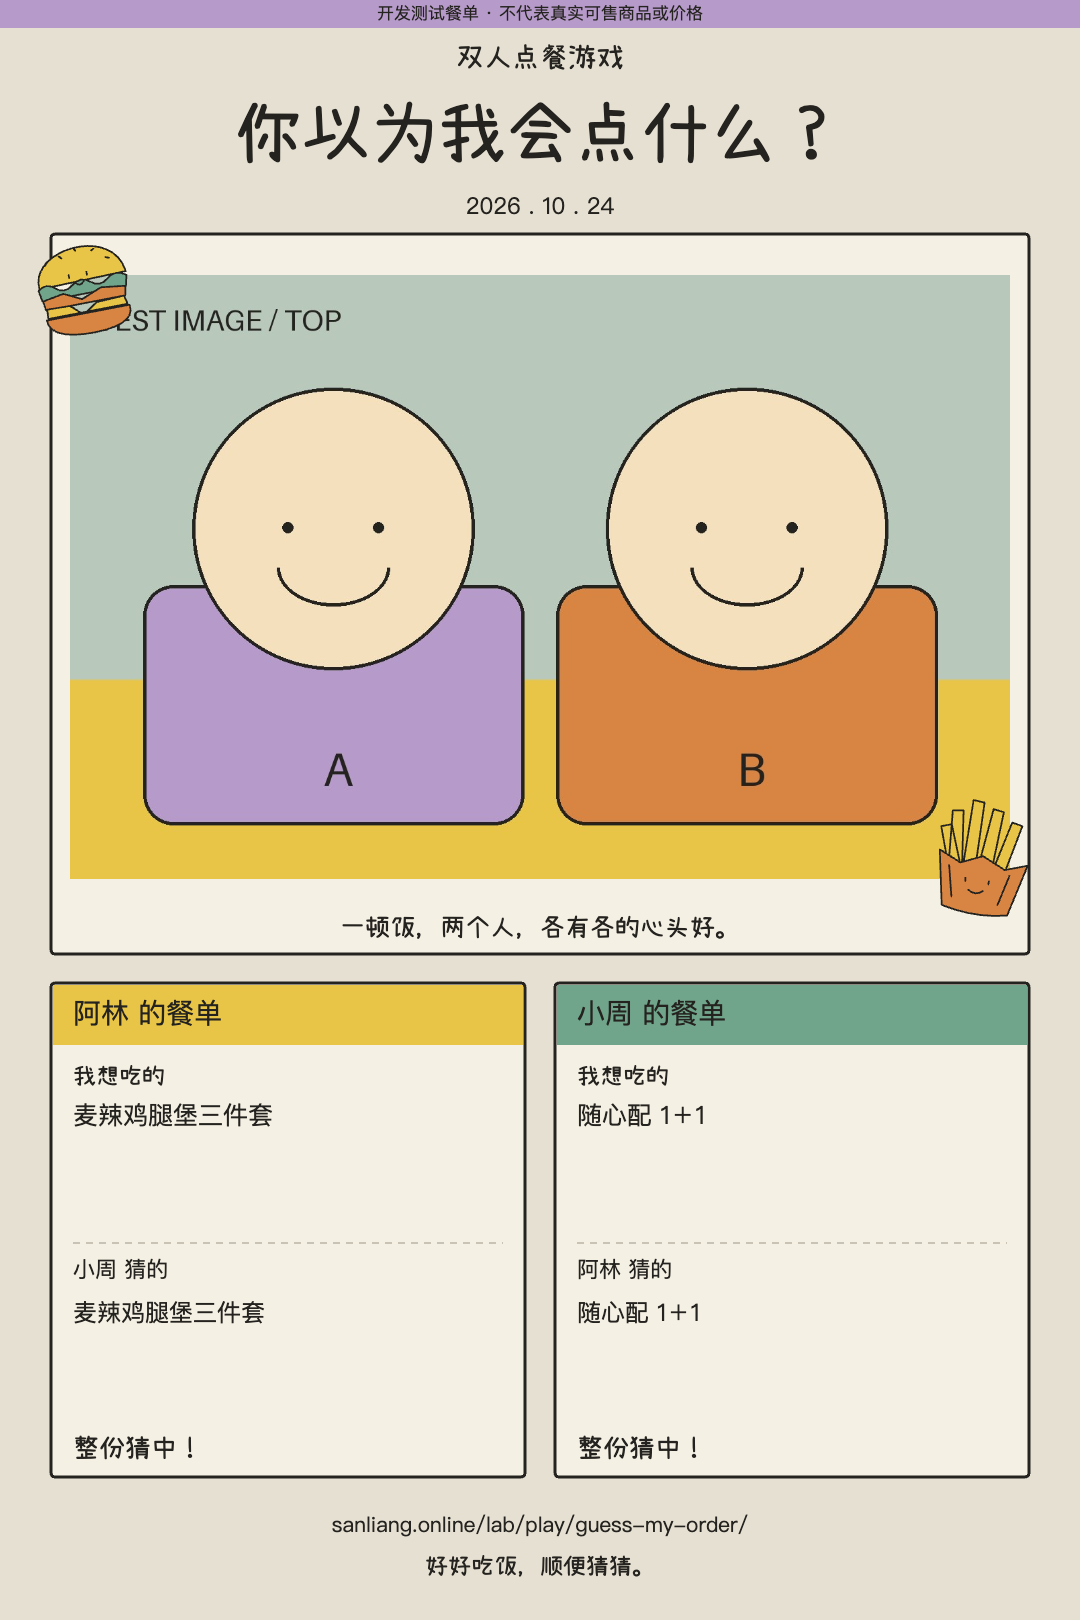
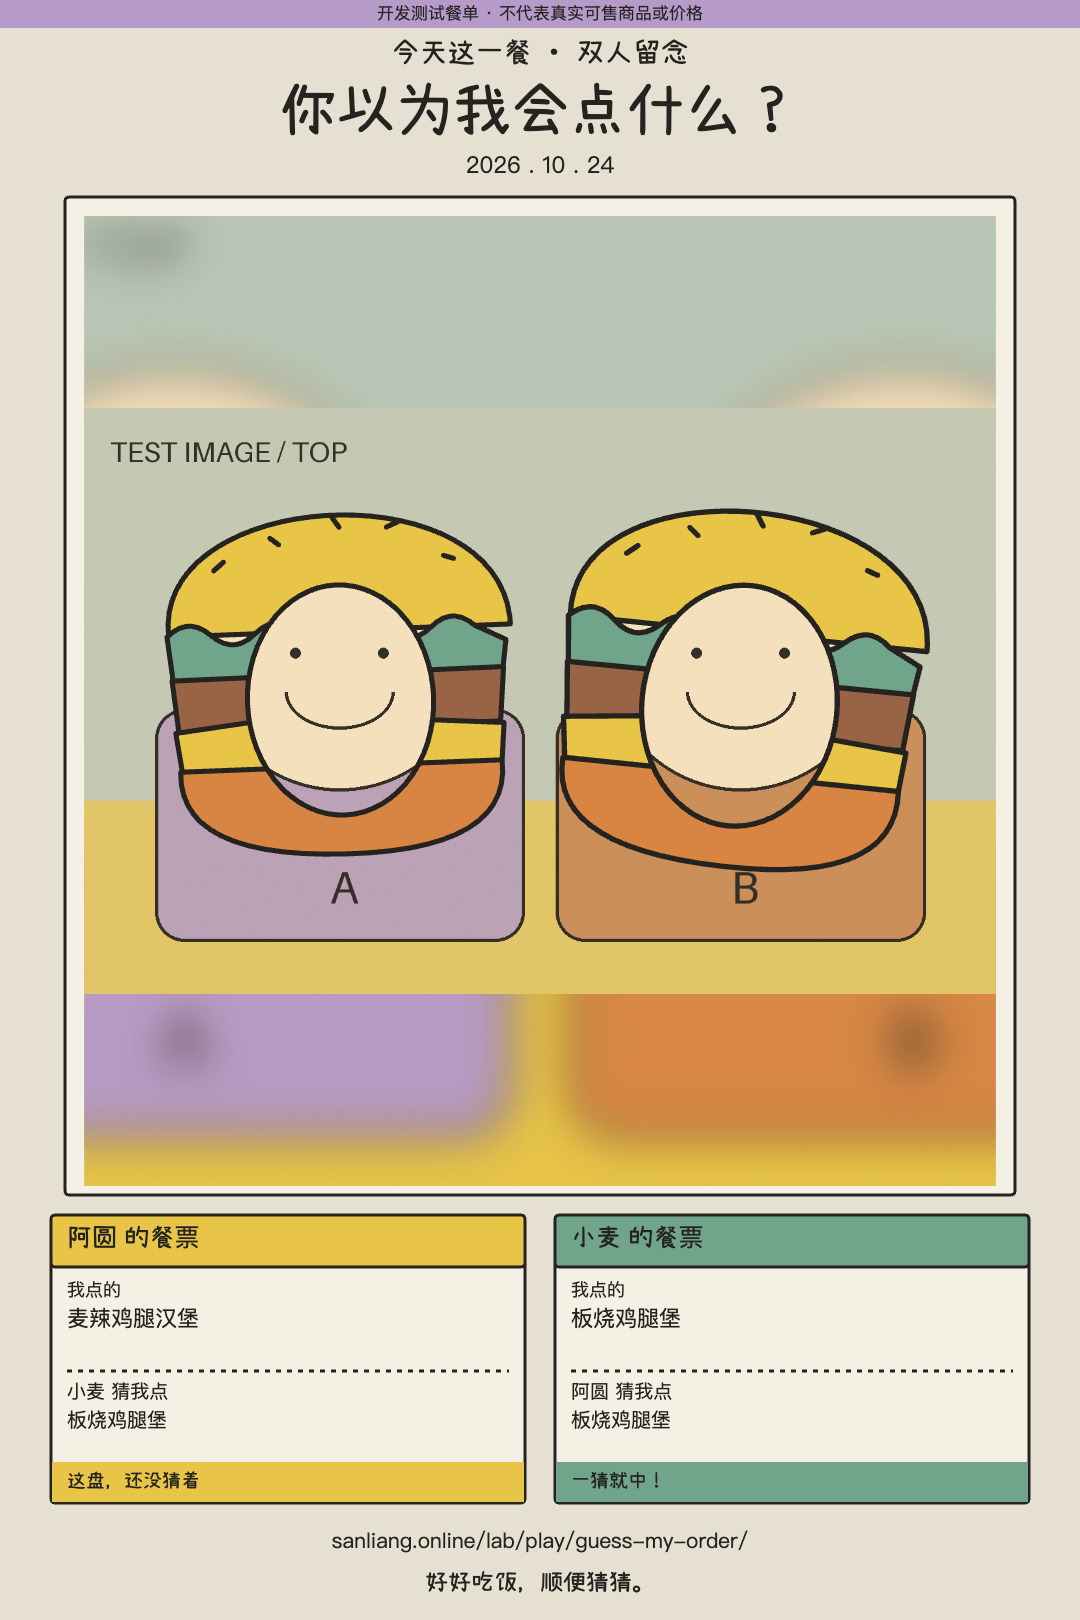
Redesign photo meal tickets and add explicit mobile image saving

diff --git a/public/style.css b/public/style.css
@@ -56,3 +56,6 @@ body.in-game .wordmark{visibility:hidden}.catalog-selection.configuring .action-
 
 /* Compact receipt: keep prices separate from long meal descriptions. */
 .reference-content .receipt-row{display:block;padding:16px 0}.reference-content .receipt-row>.price{display:flex;align-items:baseline;justify-content:flex-end;gap:8px;margin-top:8px}.reference-content .receipt-row p{margin:8px 0}.reference-content .button-row{margin:20px 0 14px}.receipt-note{margin:12px 0}.price-conditions>summary{min-height:44px;display:flex;align-items:center;cursor:pointer;font-size:13px;text-decoration:underline}.price-conditions p{margin:0 0 12px}.reference-content>h3{margin:20px 0 8px}
+
+/* Photo workspace: spend the screen on the photograph, not repeated headings. */
+.page:has(.photo-heading)>.masthead{display:none}.photo-heading{padding:8px 0}.photo-heading h1{font-size:22px;margin:0}.save-status:empty{display:none}.save-status{margin:8px 0;text-align:center}.save-dialog{padding:14px 16px 20px;max-width:430px}.save-dialog>[data-close]{float:right}.save-dialog h2{font-size:23px;margin:10px 0}.save-dialog img{display:block;width:100%;height:auto;margin:12px 0;user-select:auto;-webkit-touch-callout:default}.save-dialog p{font-size:13px;margin:8px 0}.save-dialog::backdrop{background:#25231fb3}

diff --git a/HANDOFF.MD b/HANDOFF.MD
@@ -71,3 +71,10 @@
 - 实际指针处理器检查扩展：分别先松第一指或第二指、随后lostpointercapture、剩余指静止不跳、重新加入第二指、忽略第三指、取消、按住期间切换玩家。两顶头套状态独立。
 - 线上完成两位头套分别大小/旋转调整再切回、导出和下载；预览src与保存href一致，下载PNG1080×1620，控制台无error。双指事件检查不冒充真机触摸验收。
 - 生产21项、开源22项通过；v4g仅更新照片模块，回滚点v4f，不重启后端，无新增依赖或网络请求。
+
+## 合影餐票与微信保存 v4h · 2026-10-24
+- 用户实测环境为 Android 微信。原download链接可能被内置浏览器忽略，不能假报“保存成功”。手机点击保存改为显示长按保存大图，桌面保持下载并提示检查下载列表；两者均可打开备用保存界面。
+- 长按界面按需把同一PNG转为data URL，避免只依赖blob下载；图片仅本机处理。已经核对长按图与下载PNG逐字节一致。网页无法确认相册写入成功，Android微信长按菜单仍需本人复测。
+- 1080×1620卡片下方改为双人餐票：昵称、实际所选餐品、朋友昵称与预测餐品、事实结果色条；照片仍占主要面积，完整餐单留网页。合影工作区隐藏重复站点顶栏、压缩标题；微信自身导航栏高度无法由网页控制。
+- 本地测试和正式站均完成生成、桌面下载及备用保存界面检查；测试照片为合成图。生产22项、开源23项检查通过，新增Android微信/iPhone/桌面保存分支检查。
+- v4h仅更新photo.mjs与style.css，回滚v4g；无后端重启或新依赖。名字候选“这口我懂 / 猜你这口 / 饭搭子默契局”，尚未改正式名称。
